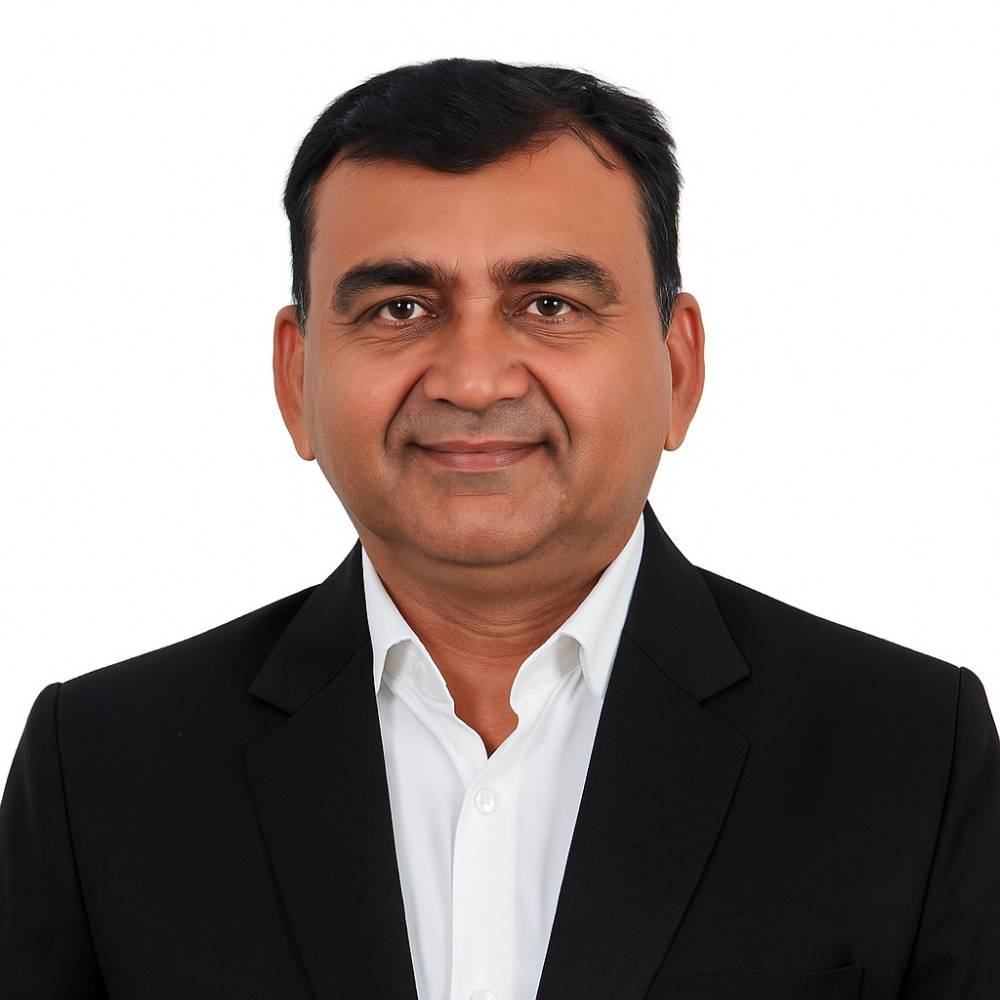
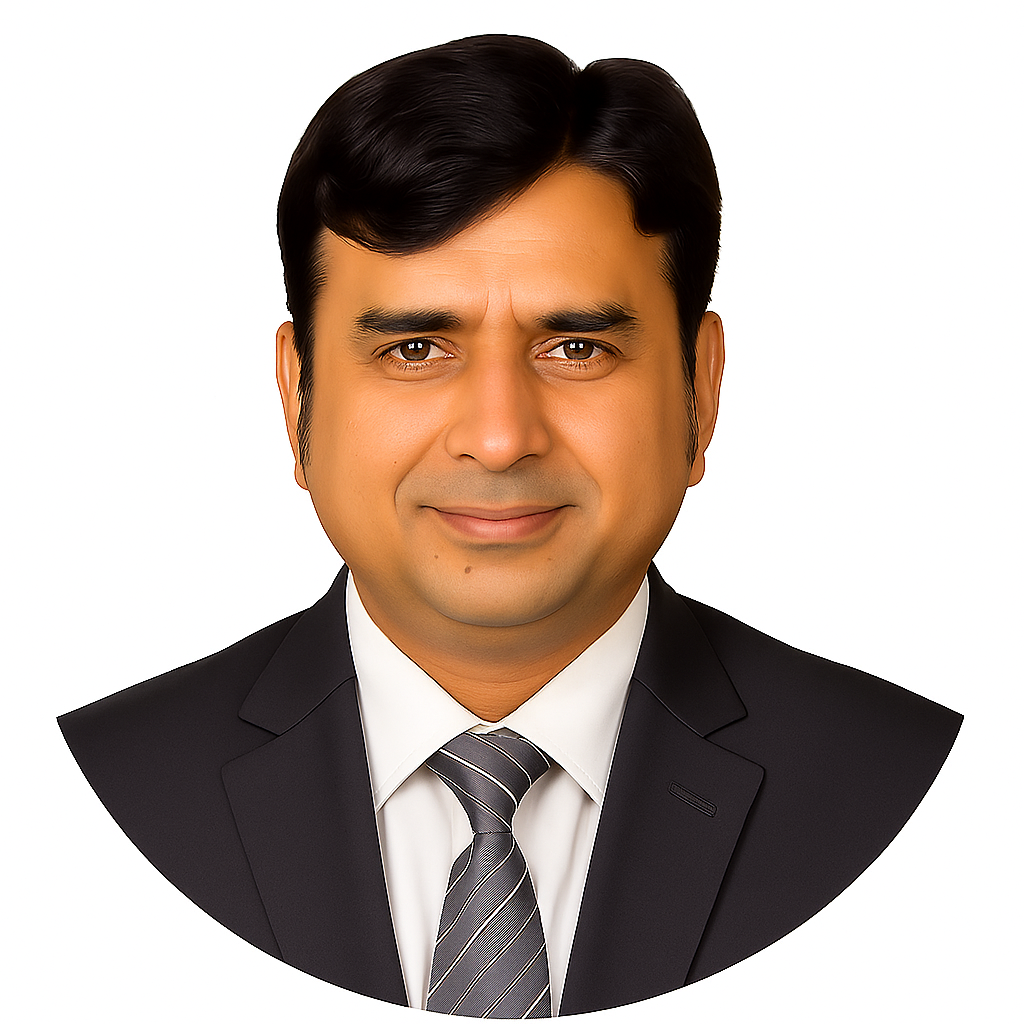
final update

diff --git a/app/gallery/page.tsx b/app/gallery/page.tsx
@@ -1,0 +1,109 @@
+"use client";
+
+import Image from "next/image";
+import SectionTop from "@/components/SectionTop";
+import { useState } from "react";
+
+const Gallery = () => {
+  const [selectedImage, setSelectedImage] = useState<string | null>(null);
+
+  // List of all images in the gallery folder
+  const galleryImages = [
+    "0M4A0152.JPG",
+    "0M4A0162.JPG", 
+    "0M4A0208.JPG",
+    "0M4A0246.JPG",
+    "0M4A0247.JPG",
+    "0M4A0252.JPG",
+    "0M4A0256.JPG",
+    "0M4A0276.JPG",
+    "0M4A0280.JPG",
+    "0M4A0283.JPG",
+    "0M4A0285.JPG",
+    "0M4A0293.JPG",
+    "0M4A0317.JPG",
+    "0M4A0331.JPG",
+    "0M4A0336.JPG",
+    "0M4A0349.JPG",
+    "0M4A0364.JPG",
+    "0M4A0380.JPG",
+    "0M4A0405.JPG",
+    "0M4A0429.JPG",
+    "0M4A0453.JPG",
+    "0M4A0473.JPG",
+    "0M4A0527.JPG",
+    "20250623_160308.jpg",
+    "IMG-20190108-WA0121.jpg",
+    "IMG-20190108-WA0122.jpg",
+    "IMG-20190108-WA0123.jpg",
+    "IMG-20190108-WA0124.jpg",
+    "IMG-20190108-WA0126.jpg"
+  ];
+
+  return (
+    <>
+      <SectionTop
+        chip=""
+        title="Gallery"
+        description="Explore our gallery showcasing our facilities, team, and work environment at Bonton Cables."
+        imageUrl="/sectiontop/gallery.jpg"
+        btnText=""
+        link=""
+      />
+
+      <div className="parent py-[80px] bg-gradient-to-br from-gray-50 to-blue-50">
+        <div className="container px-4">
+          <div className="grid grid-cols-1 sm:grid-cols-2 md:grid-cols-3 lg:grid-cols-4 gap-6">
+            {galleryImages.map((image, index) => (
+              <div 
+                key={index}
+                className="group overflow-hidden rounded-lg shadow-lg hover:shadow-xl transition-all duration-300 hover:scale-105 relative aspect-square cursor-pointer"
+                onClick={() => setSelectedImage(image)}
+              >
+                <Image
+                  src={`/gallery/${image}`}
+                  alt={`Gallery image ${index + 1}`}
+                  fill
+                  className="object-cover group-hover:scale-110 transition-transform duration-300"
+                  sizes="(max-width: 640px) 100vw, (max-width: 768px) 50vw, (max-width: 1024px) 33vw, 25vw"
+                />
+              </div>
+            ))}
+          </div>
+        </div>
+      </div>
+
+      {/* Modal for large image view */}
+      {selectedImage && (
+        <div 
+          className="fixed inset-0 bg-black/75 flex items-center justify-center z-50 p-4"
+          onClick={() => setSelectedImage(null)}
+        >
+          <div className="relative max-w-4xl max-h-[90vh] w-full">
+            {/* Close button */}
+            <button
+              onClick={() => setSelectedImage(null)}
+              className="absolute -top-18 right-2 text-white hover:text-gray-300 transition-colors duration-200 text-2xl font-bold z-10"
+            >
+              ✕
+            </button>
+            
+            {/* Large image */}
+            <div className="relative w-full h-full">
+              <Image
+                src={`/gallery/${selectedImage}`}
+                alt="Gallery image"
+                width={1200}
+                height={800}
+                className="object-contain max-w-full max-h-[90vh] rounded-lg shadow-2xl"
+                priority
+              />
+            </div>
+          </div>
+        </div>
+      )}
+    </>
+  );
+};
+
+export default Gallery;

diff --git a/app/about/page.tsx b/app/about/page.tsx
@@ -117,23 +117,23 @@ const page = () => {
   ];
 
   const financialData = [
-    { year: "2008-09", turnover: 49.1 },
-    { year: "2009-10", turnover: 59.9 },
-    { year: "2010-11", turnover: 81.09 },
-    { year: "2011-12", turnover: 111.78 },
-    { year: "2012-13", turnover: 100.35 },
-    { year: "2013-14", turnover: 101.22 },
-    { year: "2014-15", turnover: 131.97 },
-    { year: "2015-16", turnover: 157.01 },
-    { year: "2016-17", turnover: 169.11 },
-    { year: "2017-18", turnover: 229.62 },
-    { year: "2018-19", turnover: 276.78 },
-    { year: "2019-20", turnover: 251.34 },
-    { year: "2020-21", turnover: 278.48 },
-    { year: "2021-22", turnover: 388.46 },
-    { year: "2022-23", turnover: 549.54 },
-    { year: "2023-24", turnover: 558.35 },
-    { year: "2024-25", turnover: 700 + "+" },
+    { year: "2008-09", turnover: "49.1" },
+    { year: "2009-10", turnover: "59.9 "},
+    { year: "2010-11", turnover: "81.09" },
+    { year: "2011-12", turnover: "111.78" },
+    { year: "2012-13", turnover: "100.35" },
+    { year: "2013-14", turnover: "101.22" },
+    { year: "2014-15", turnover: "131.97" },
+    { year: "2015-16", turnover: "157.01" },
+    { year: "2016-17", turnover: "169.11" },
+    { year: "2017-18", turnover: "229.62" },
+    { year: "2018-19", turnover: "276.78" },
+    { year: "2019-20", turnover: "251.34" },
+    { year: "2020-21", turnover: "278.48" },
+    { year: "2021-22", turnover: "388.46" },
+    { year: "2022-23", turnover: "549.54" },
+    { year: "2023-24", turnover: "558.35" },
+    { year: "2024-25", turnover: "700" },
   ];
 
   const keyInsights = [

diff --git a/app/awards_and_accolades/page.tsx b/app/awards_and_accolades/page.tsx
@@ -116,6 +116,33 @@ const Plan2035 = () => {
         btnText="Be a Part of Our Journey"
         link="/career-opportunities"
       />
+      <div className="parent py-[100px] hidden md:block">
+        <div className="container px-4 flex gap-8 justify-center items-center" style={{ perspective: '1000px' }}>
+          <div className="transform rotate-3" style={{ transform: 'rotateY(15deg) rotateZ(-3deg)' }}>
+            <Image src="/awards/gal1.png" alt="Awards" width={400} height={1000} />
+          </div>
+          <div className="transform -rotate-3" style={{ transform: 'rotateY(-15deg) rotateZ(3deg)' }}>
+            <Image src="/awards/gal2.png" alt="Awards" width={400} height={1000} />
+          </div>
+        </div>
+      </div>
+
+      <div className="parent py-[100px]  md:hidden">
+        <div className="container px-4 fle flex-col gap-8 justify-center items-center" >
+          <div className="transform  mb-2" >
+            <Image src="/awards/gal1.png" alt="Awards" width={400} height={1000} />
+          </div>
+          <div className="transform mt-2 " >
+            <Image src="/awards/gal2.png" alt="Awards" width={400} height={1000} />
+          </div>
+        </div>
+      </div>
+
+
+
+
+
+
       {awards.map((award, index) => (
         <div key={index} className={`parent  relative   ${index % 2 !== 0 ? 'bg-gradient-to-br from-[#121722] via-emerald-500 to-[var(--accent3)]' : 'bg-gradient-to-br from-[#121722] via-[var(--accent2)] to-[var(--accent3)]'}`}>
            <Image

diff --git a/app/products/[id]/page.tsx b/app/products/[id]/page.tsx
@@ -403,20 +403,8 @@ const ProductPage = ({ params }: PageProps) => {
                   {product.applications?.map((item, index) => (
                     <SwiperSlide key={index} className="w-full pb-4 ">
                       <div className="flex flex-col items-center justify-center h-[120px] p-2 shadow-lg bg-white rounded-2xl w-full text-center">
-                        {item.image ? (
-                          <Image
-                            src={item.image}
-                            alt={item.description}
-                            width={40}
-                            height={40}
-                            className="object-contain"
-                          />
-                        ) : (
-                          <span className="text-3xl text-[var(--accent2)]">
-                            <CiCircleCheck />
-                          </span>
-                        )}
-                        <span className="text-sm mt-2">{item.description}</span>
+                        
+                        <p className="text-sm mt-2">{item.description}</p>
                       </div>
                     </SwiperSlide>
                   ))}

diff --git a/app/our-team/page.tsx b/app/our-team/page.tsx
@@ -106,7 +106,7 @@ const page = () => {
     },
     {
       name: "Mr. Ajay Chandulal Vyas",
-      designation: "Branch Head: Gujrat",
+      designation: "Branch Head: Gujarat",
       description:
         "Possesses over 25 years of professional expertise in Sales and Marketing, and became part of the company in 2024.",
       image: "/team/Ajay Chandulal Vyas.jpg",

diff --git a/components/Header.tsx b/components/Header.tsx
@@ -31,6 +31,8 @@ const Header = () => {
         
         { name: "Bonton Blogs", link: "/blogs" },
         { name: "Plan For 2035 ", link: "/plan_for_2035" },
+        { name: "Gallery ", link: "/gallery" },
+
       ],
     },
     {
